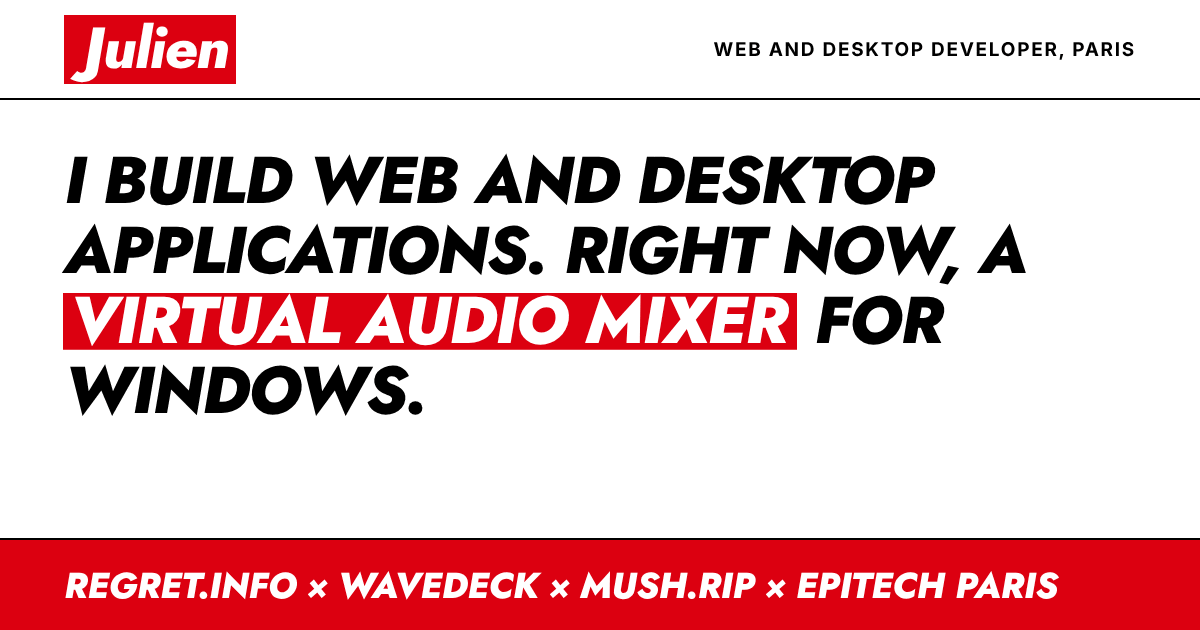
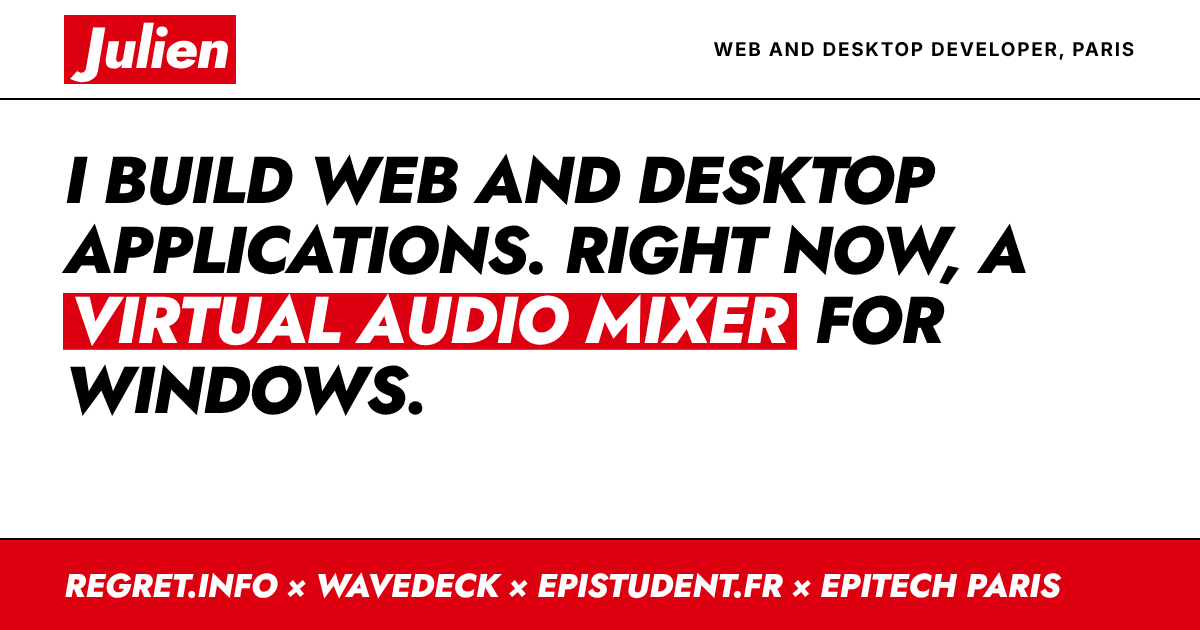
Content: epistudent.fr is the new project, mush.rip and Wingman are finished
- epistudent.fr leads the projects grid (red tile, links out) and appears in
  the introduction, the meta descriptions, the ticker, the social preview and
  the assistant. It is described only with what is known: a website that
  calculates a student's budget.
- mush.rip and Wingman stay as grey "finished" tiles, like sold-out items:
  past tense, no link. mush.rip leaves the current row of the timeline
  ("2025 – finished"; the end year is left out on purpose).
- The projects grid goes from three to two columns to fit four tiles.
- Assistant: scripted answers and the Groq prompt updated (past tense, new
  project, instruction not to invent details about it).
- README and social preview updated.

Checked in Chromium: no overflow and project names on one line from 320 to
2560 px (EN and FR), AA contrast on every text node in both themes, 24
interaction checks, 17 assistant answers, print output.

Claude-Session: https://claude.ai/code/session_0196o4fWBh3X7kWCBHnqm7Tk

Changed region(s): [[0.0617, 0.9048, 0.8942, 0.9651]]

diff --git a/index.html b/index.html
@@ -6,7 +6,7 @@
 <meta http-equiv="Content-Security-Policy" content="default-src 'self'; base-uri 'self'; object-src 'none'; form-action 'self'; img-src 'self' data:; font-src 'self'; style-src 'self' 'unsafe-inline'; script-src 'self' 'sha256-vpwFnruZ0Ph2kdsAgfS2eMYl62Y6UTLTqETLC7OAzMw='; connect-src 'self' https://api.lanyard.rest https://github-contributions-api.jogruber.de https://abacus.jasoncameron.dev; upgrade-insecure-requests">
 <meta name="referrer" content="strict-origin-when-cross-origin">
 <title>Julien · Web and desktop developer, Paris</title>
-<meta name="description" content="Julien, web and desktop developer based in Paris. First-year student at Epitech, building WaveDeck, a virtual audio mixer for Windows. Co-owner of mush.rip.">
+<meta name="description" content="Julien, web and desktop developer based in Paris. First-year student at Epitech, building WaveDeck, a virtual audio mixer for Windows, and epistudent.fr, a student budget calculator.">
 <meta name="author" content="Julien">
 <meta name="color-scheme" content="light dark">
 <meta name="theme-color" content="#ffffff">
@@ -22,7 +22,7 @@
 <meta property="og:site_name" content="Julien">
 <meta property="og:url" content="https://regret.info/">
 <meta property="og:title" content="Julien · Web and desktop developer, Paris">
-<meta property="og:description" content="Web and desktop applications. Building WaveDeck, a virtual audio mixer for Windows. Co-owner of mush.rip. Epitech Paris.">
+<meta property="og:description" content="Web and desktop applications. Building WaveDeck, a virtual audio mixer for Windows, and epistudent.fr, a student budget calculator. Epitech Paris.">
 <meta property="og:image" content="https://regret.info/assets/img/preview.png">
 <meta property="og:image:width" content="1200">
 <meta property="og:image:height" content="630">
@@ -32,7 +32,7 @@
 <meta property="profile:first_name" content="Julien">
 <meta name="twitter:card" content="summary_large_image">
 <meta name="twitter:title" content="Julien · Web and desktop developer, Paris">
-<meta name="twitter:description" content="Web and desktop applications. Building WaveDeck, a virtual audio mixer for Windows. Co-owner of mush.rip. Epitech Paris.">
+<meta name="twitter:description" content="Web and desktop applications. Building WaveDeck, a virtual audio mixer for Windows, and epistudent.fr, a student budget calculator. Epitech Paris.">
 <meta name="twitter:image" content="https://regret.info/assets/img/preview.png">
 <script type="application/ld+json">
 {"@context":"https://schema.org","@type":"Person","name":"Julien","alternateName":"Regret","url":"https://regret.info/","image":"https://regret.info/assets/img/avatar.jpg","jobTitle":"Web and desktop developer","email":"mailto:julien.roullet@proton.me","address":{"@type":"PostalAddress","addressLocality":"Paris","addressCountry":"FR"},"affiliation":{"@type":"CollegeOrUniversity","name":"Epitech Paris","url":"https://www.epitech.eu/"},"knowsAbout":["Python","JavaScript","C","PySide6","Qt","Node.js","Express","React","WebSockets","SQLite","Audio software","VST3"],"sameAs":["https://github.com/regret-py","https://discord.com/users/173290719316934659"]}
@@ -222,19 +222,23 @@ h1 em{padding:0 .16em 0 .1em;margin:0 -.02em;font-style:inherit;color:var(--on-m
 @keyframes vu{0%{height:28%}22%{height:74%}44%{height:46%}66%{height:90%}88%{height:56%}100%{height:68%}}
 
 /* projects: product tiles, red / ink / paper */
-.plist{list-style:none;margin:0;padding:0;display:grid;grid-template-columns:repeat(3,minmax(0,1fr));gap:20px}
+.plist{list-style:none;margin:0;padding:0;display:grid;grid-template-columns:repeat(2,minmax(0,1fr));gap:20px}
 .prow{position:relative;display:flex;flex-direction:column;border:1px solid var(--line);background:var(--bg);transition:transform .2s var(--ease),box-shadow .2s var(--ease)}
 .prow.lnk:hover{transform:translate(-3px,-3px);box-shadow:6px 6px 0 var(--text)}
-.phead{display:flex;flex-direction:column-reverse;justify-content:space-between;gap:48px;min-height:228px;padding:16px;background:var(--tile-bg);color:var(--tile-fg)}
+.phead{display:flex;flex-direction:column-reverse;justify-content:space-between;gap:48px;min-height:210px;padding:16px;background:var(--tile-bg);color:var(--tile-fg)}
 .t-red{--tile-bg:var(--mark);--tile-fg:var(--on-mark)}
 .t-ink{--tile-bg:var(--text);--tile-fg:var(--bg)}
 .t-paper{--tile-bg:var(--bg-2);--tile-fg:var(--text)}
 .phead .meta{color:inherit}
-.pname{margin:0;font:italic 800 clamp(26px,2.8vw,36px)/.98 var(--logo);letter-spacing:-.02em;text-transform:uppercase;overflow-wrap:anywhere}
+.pname{margin:0;font:italic 800 clamp(26px,3.6vw,46px)/.98 var(--logo);letter-spacing:-.02em;text-transform:uppercase;overflow-wrap:anywhere}
 .pname a{text-decoration:none}
 .pname a::after{content:"";position:absolute;inset:0}
 .pname a:focus-visible{outline:0}
 .prow:has(.pname a:focus-visible){outline:3px solid var(--accent);outline-offset:3px}
+/* finished projects: grey tile, no link, a label like a "sold out" tag */
+.tag{position:absolute;top:12px;right:14px;padding:4px 8px;background:var(--text);color:var(--bg);font:700 10px/1.2 var(--sans);letter-spacing:.08em;text-transform:uppercase}
+.prow.done .phead{min-height:150px}
+.prow.done .pname{color:var(--dim)}
 .pname .ext{position:absolute;top:13px;right:16px;font:700 18px/1 var(--sans);transition:transform .25s var(--ease)}
 .prow.lnk:hover .ext{transform:translate(3px,-3px)}
 .pbody{display:flex;flex-direction:column;gap:12px;padding:16px 16px 18px}
@@ -373,7 +377,8 @@ footer{padding:0;font:700 11px/1.5 var(--sans);letter-spacing:.08em;text-transfo
 @media (max-width:760px){
   .plist{grid-template-columns:minmax(0,1fr)}
   .phead{min-height:176px}
-  .pname{font-size:clamp(30px,8vw,40px)}
+  .prow.done .phead{min-height:120px}
+  .pname{font-size:clamp(26px,7.6vw,40px)}
 }
 @media (max-width:640px){
   .wrap{padding-left:18px;padding-right:18px}
@@ -453,6 +458,8 @@ footer{padding:0;font:700 11px/1.5 var(--sans);letter-spacing:.08em;text-transfo
   .prow{display:grid;grid-template-columns:150px minmax(0,1fr);gap:0 12pt;padding:6pt 0;border:0;border-top:1px solid var(--rule);break-inside:avoid;transform:none!important;box-shadow:none!important}
   .phead{display:block;min-height:0;padding:0;background:none;color:#000}
   .pbody{padding:0}
+  .tag{position:static;display:inline-block;margin-top:2pt;padding:0 4pt;background:none;color:#000;border:1px solid #000;font-size:7pt}
+  .prow.done .pname{color:#000}
   .pname{font-size:10.5pt}
   .pname a::after{content:" (" attr(href) ")";position:static;font:400 7.5pt var(--sans);letter-spacing:0;text-transform:none;color:#555}
   .meta,.stack,.xp-row dt{font-size:8pt}
@@ -518,7 +525,7 @@ footer{padding:0;font:700 11px/1.5 var(--sans);letter-spacing:.08em;text-transfo
 
       <div class="hero-main">
         <h1 id="h-hero" class="rise" style="--d:2" data-i18n-html="hero_h">I build web and desktop applications. <span class="nw">Right now,</span> a <em>virtual audio mixer</em> for Windows.</h1>
-        <p class="intro rise" style="--d:3" data-i18n-html="hero_p">First-year student at <a class="u" href="https://www.epitech.eu/" target="_blank" rel="noopener">Epitech Paris</a>, in the Programme Grande École (PGE). I also co-own <a class="u" href="https://mush.rip" target="_blank" rel="noopener">mush.rip</a>, a link-in-bio platform, where I look after product and operations.</p>
+        <p class="intro rise" style="--d:3" data-i18n-html="hero_p">First-year student at <a class="u" href="https://www.epitech.eu/" target="_blank" rel="noopener">Epitech Paris</a>, in the Programme Grande École (PGE). I also build <a class="u" href="https://epistudent.fr" target="_blank" rel="noopener">epistudent.fr</a>, a website that calculates a student’s budget.</p>
 
         <div class="hero-foot rise" style="--d:4">
           <p class="avail" data-i18n="avail">Available for an internship, freelance work or a collaboration</p>
@@ -534,7 +541,7 @@ footer{padding:0;font:700 11px/1.5 var(--sans);letter-spacing:.08em;text-transfo
 </div>
 
 <!-- decorative strip: two identical halves so the loop is seamless; each half must stay wider than the viewport (7 repeats cover 5K screens) -->
-<div class="ticker" aria-hidden="true"><div class="ticker-track"><span>WaveDeck × mush.rip × Flockocord × Wingman × Epitech Paris × WaveDeck × mush.rip × Flockocord × Wingman × Epitech Paris × WaveDeck × mush.rip × Flockocord × Wingman × Epitech Paris × WaveDeck × mush.rip × Flockocord × Wingman × Epitech Paris × WaveDeck × mush.rip × Flockocord × Wingman × Epitech Paris × WaveDeck × mush.rip × Flockocord × Wingman × Epitech Paris × WaveDeck × mush.rip × Flockocord × Wingman × Epitech Paris ×&nbsp;</span><span>WaveDeck × mush.rip × Flockocord × Wingman × Epitech Paris × WaveDeck × mush.rip × Flockocord × Wingman × Epitech Paris × WaveDeck × mush.rip × Flockocord × Wingman × Epitech Paris × WaveDeck × mush.rip × Flockocord × Wingman × Epitech Paris × WaveDeck × mush.rip × Flockocord × Wingman × Epitech Paris × WaveDeck × mush.rip × Flockocord × Wingman × Epitech Paris × WaveDeck × mush.rip × Flockocord × Wingman × Epitech Paris ×&nbsp;</span></div></div>
+<div class="ticker" aria-hidden="true"><div class="ticker-track"><span>WaveDeck × epistudent.fr × Flockocord × Epitech Paris × WaveDeck × epistudent.fr × Flockocord × Epitech Paris × WaveDeck × epistudent.fr × Flockocord × Epitech Paris × WaveDeck × epistudent.fr × Flockocord × Epitech Paris × WaveDeck × epistudent.fr × Flockocord × Epitech Paris × WaveDeck × epistudent.fr × Flockocord × Epitech Paris × WaveDeck × epistudent.fr × Flockocord × Epitech Paris ×&nbsp;</span><span>WaveDeck × epistudent.fr × Flockocord × Epitech Paris × WaveDeck × epistudent.fr × Flockocord × Epitech Paris × WaveDeck × epistudent.fr × Flockocord × Epitech Paris × WaveDeck × epistudent.fr × Flockocord × Epitech Paris × WaveDeck × epistudent.fr × Flockocord × Epitech Paris × WaveDeck × epistudent.fr × Flockocord × Epitech Paris × WaveDeck × epistudent.fr × Flockocord × Epitech Paris ×&nbsp;</span></div></div>
 
 <div class="wrap rest">
 
@@ -606,11 +613,11 @@ footer{padding:0;font:700 11px/1.5 var(--sans);letter-spacing:.08em;text-transfo
     <ul class="plist">
       <li class="prow t-red lnk">
         <div class="phead">
-          <h3 class="pname"><a href="https://mush.rip" target="_blank" rel="noopener">mush.rip<span class="ext" aria-hidden="true">↗</span></a></h3>
-          <p class="meta" data-i18n="mush_meta">co-owner&nbsp;· since&nbsp;2025</p>
+          <h3 class="pname"><a href="https://epistudent.fr" target="_blank" rel="noopener">epistudent.fr<span class="ext" aria-hidden="true">↗</span></a></h3>
+          <p class="meta" data-i18n="epi_meta">new project</p>
         </div>
         <div class="pbody">
-          <p data-i18n="mush_desc">Link-in-bio platform: one page that brings together a person’s links, social profiles and statistics. A small team builds it; as co-owner, I handle product and operations.</p>
+          <p data-i18n="epi_desc">Website that calculates a student’s budget.</p>
         </div>
       </li>
       <li class="prow t-ink">
@@ -623,10 +630,21 @@ footer{padding:0;font:700 11px/1.5 var(--sans);letter-spacing:.08em;text-transfo
           <p class="stack">node.js&nbsp;· express&nbsp;· websocket&nbsp;· sqlite&nbsp;· jwt</p>
         </div>
       </li>
-      <li class="prow t-paper">
+      <li class="prow t-paper done">
+        <div class="phead">
+          <h3 class="pname">mush.rip</h3>
+          <p class="meta" data-i18n="mush_meta">co-owner&nbsp;· 2025</p>
+          <span class="tag" data-i18n="done">finished</span>
+        </div>
+        <div class="pbody">
+          <p data-i18n="mush_desc">Link-in-bio platform: one page that brought together a person’s links, social profiles and statistics. A small team built it; as co-owner, I handled product and operations.</p>
+        </div>
+      </li>
+      <li class="prow t-paper done">
         <div class="phead">
           <h3 class="pname">Wingman</h3>
           <p class="meta" data-i18n="community">community&nbsp;· Discord bot</p>
+          <span class="tag" data-i18n="done">finished</span>
         </div>
         <div class="pbody">
           <p data-i18n-html="wing_desc">A <span class="nw">Counter-Strike 2</span> community and its Discord bot: matchmaking, tournaments and anti-raid protection.</p>
@@ -664,7 +682,7 @@ footer{padding:0;font:700 11px/1.5 var(--sans);letter-spacing:.08em;text-transfo
     <div>
       <dl class="xp xp--time">
         <div class="xp-row cur"><dt class="num" data-i18n="d1">Sept 2026 – present</dt><dd><b>Epitech Paris</b><span data-i18n-html="r1">Programme Grande École (PGE), first year</span></dd></div>
-        <div class="xp-row cur"><dt class="num" data-i18n="d2">2025 – present</dt><dd><b>mush.rip</b><span data-i18n="r2">Co-owner, product and operations, remote</span></dd></div>
+        <div class="xp-row"><dt class="num" data-i18n="d2">2025 – finished</dt><dd><b>mush.rip</b><span data-i18n="r2">Co-owner, product and operations, remote</span></dd></div>
         <div class="xp-row"><dt class="num">2026</dt><dd><b>Baccalauréat STI2D</b><span data-i18n="r3">Technology track, SIN specialisation (information systems and digital technology)</span></dd></div>
       </dl>
       <p class="cvline"><a class="u" href="mailto:julien.roullet@proton.me?subject=CV%20request" data-i18n="cv" data-i18n-href="cv_href">Full CV on request →</a></p>
@@ -674,7 +692,7 @@ footer{padding:0;font:700 11px/1.5 var(--sans);letter-spacing:.08em;text-transfo
   <section class="sec" id="off" aria-labelledby="h-off">
     <h2 class="sec-h" id="h-off"><span class="n">04</span><span data-i18n="off_h">off screen</span></h2>
     <div>
-      <p class="lede" data-i18n-html="off_p">Away from the keyboard: cars, skateboarding and catamaran sailing. And <span class="nw">Counter-Strike 2</span>, which is where Wingman comes from.</p>
+      <p class="lede" data-i18n-html="off_p">Away from the keyboard: cars, skateboarding and catamaran sailing. And <span class="nw">Counter-Strike 2</span>, which is where Wingman came from.</p>
       <div class="photos">
         <figure><picture><source srcset="assets/img/car.webp" type="image/webp"><img src="assets/img/car.jpg" alt="A blue sports coupé cornering on a race track" data-i18n-alt="img_car" width="660" height="470" loading="lazy" decoding="async"></picture><figcaption data-i18n="cap_car">fig. 2: on track</figcaption></figure>
         <figure><picture><source srcset="assets/img/skate.webp" type="image/webp"><img src="assets/img/skate.jpg" alt="Three skateboards on a train" data-i18n-alt="img_skate" width="460" height="613" loading="lazy" decoding="async"></picture><figcaption data-i18n="cap_skate">fig. 3: skateboarding</figcaption></figure>

diff --git a/assets/js/site.js b/assets/js/site.js
@@ -48,14 +48,14 @@
   // Typography: U+00A0 before ":" and U+202F before ";", "?" and "!".
   var T = { fr: {
     doc_title: 'Julien · Développeur web et desktop, Paris',
-    doc_desc: 'Julien, développeur web et desktop basé à Paris. Étudiant en 1re année à Epitech, il développe WaveDeck, une table de mixage audio virtuelle pour Windows. Copropriétaire de mush.rip.',
+    doc_desc: 'Julien, développeur web et desktop basé à Paris. Étudiant en 1re année à Epitech, il développe WaveDeck, une table de mixage audio virtuelle pour Windows, et epistudent.fr, un site qui calcule le budget d’un étudiant.',
     skip: 'Aller au contenu',
     home_aria: 'Julien, accueil', nav_aria: 'Navigation principale', lang_group: 'Langue',
     nav_projects: 'projets', nav_skills: 'compétences', nav_bg: 'parcours', nav_contact: 'contact',
     role: 'développeur\u00a0· Paris',
     mast_field: 'Développement web et desktop', mast_geo: '48,86°\u00a0N, 2,35°\u00a0E',
     hero_h: 'Je développe des applications web et desktop. <span class="nw">En ce moment,</span> une <em>table de mixage audio</em> pour Windows.',
-    hero_p: 'Étudiant en 1<sup>re</sup> année à <a class="u" href="https://www.epitech.eu/" target="_blank" rel="noopener">Epitech Paris</a>, au sein du Programme Grande École (PGE). Je suis également copropriétaire de <a class="u" href="https://mush.rip" target="_blank" rel="noopener">mush.rip</a>, une plateforme link-in-bio, où je m’occupe du produit et des opérations.',
+    hero_p: 'Étudiant en 1<sup>re</sup> année à <a class="u" href="https://www.epitech.eu/" target="_blank" rel="noopener">Epitech Paris</a>, au sein du Programme Grande École (PGE). Je développe aussi <a class="u" href="https://epistudent.fr" target="_blank" rel="noopener">epistudent.fr</a>, un site qui calcule le budget d’un étudiant.',
     avail: 'Disponible pour un stage, une mission freelance ou une collaboration',
     cta_mail: 'Écrire un e-mail', cta_cv: 'CV sur demande',
     cv_href: 'mailto:julien.roullet@proton.me?subject=Demande%20de%20CV',
@@ -66,8 +66,9 @@
     sp_plugins_v: 'VST3, chargés avec Pedalboard', sp_code_v: 'pas encore public',
     wd_link: 'Me contacter au sujet de WaveDeck →',
     wd_fig: 'fig. 1\u00a0: maquette jouable. Faites glisser les faders, appuyez sur M (muet) ou S (solo).',
-    mush_meta: 'copropriétaire\u00a0· depuis\u00a02025',
-    mush_desc: 'Plateforme link-in-bio\u00a0: une page unique qui réunit les liens, les réseaux sociaux et les statistiques d’une personne. Une petite équipe la développe\u202f; en tant que copropriétaire, je m’occupe du produit et des opérations.',
+    epi_meta: 'nouveau projet', epi_desc: 'Site web qui calcule le budget d’un étudiant.', done: 'terminé',
+    mush_meta: 'copropriétaire\u00a0· 2025',
+    mush_desc: 'Plateforme link-in-bio\u00a0: une page unique qui réunissait les liens, les réseaux sociaux et les statistiques d’une personne. Une petite équipe la développait\u202f; en tant que copropriétaire, je m’occupais du produit et des opérations.',
     side: 'projet personnel',
     flock_desc: 'Application de messagerie en temps réel, écrite de zéro\u00a0: échanges par WebSocket, authentification JWT et stockage SQLite.',
     community: 'communauté\u00a0· bot Discord',
@@ -76,7 +77,7 @@
     sk_front_v: 'HTML, CSS, React, référencement technique (SEO)',
     sk_learn_v: 'Le C, l’environnement Unix et la gestion de la mémoire, à Epitech',
     gh_h: 'Activité GitHub', gh_sub: 'contributions sur les 12 derniers mois', gh_less: 'moins', gh_more: 'plus',
-    d1: 'sept. 2026 – aujourd’hui', d2: '2025 – aujourd’hui',
+    d1: 'sept. 2026 – aujourd’hui', d2: '2025 – terminé',
     r1: 'Programme Grande École (PGE), 1<sup>re</sup> année',
     r2: 'Copropriétaire, produit et opérations, à distance',
     r3: 'Spécialité Systèmes d’information et numérique (SIN)',
@@ -540,15 +541,18 @@
       { w: 2, k: ['wavedeck', 'wave', 'audio', 'voicemeeter', 'mix', 'mixer', 'mixage', 'sound', 'vst', 'vst3'],
         en: 'WaveDeck is a modular virtual audio mixer for Windows, Julien’s own take on Voicemeeter. It is written in Python with PySide6, uses sounddevice for audio and Pedalboard to host VST3 plugins. The code is not public yet.',
         fr: 'WaveDeck est une table de mixage audio virtuelle et modulaire pour Windows, la version de Julien de Voicemeeter. Elle est écrite en Python avec PySide6, utilise sounddevice pour l’audio et Pedalboard pour charger des plugins VST3. Le code n’est pas encore public.' },
+      { k: ['epistudent', 'budget', 'calculator', 'calculateur', 'calcul'],
+        en: 'epistudent.fr is Julien’s new project: a website that calculates a student’s budget.',
+        fr: 'epistudent.fr est le nouveau projet de Julien\u00a0: un site qui calcule le budget d’un étudiant.' },
       { w: 2, k: ['mush', 'linkinbio'],
-        en: 'mush.rip is a link-in-bio platform: one page for a person’s links, social profiles and statistics. A small team builds it; Julien co-owns it and handles product and operations.',
-        fr: 'mush.rip est une plateforme link-in-bio\u00a0: une page unique pour les liens, les réseaux et les statistiques d’une personne. Une petite équipe la développe\u202f; Julien en est copropriétaire et s’occupe du produit et des opérations.' },
+        en: 'mush.rip was a link-in-bio platform: one page for a person’s links, social profiles and statistics. A small team built it; Julien co-owned it and handled product and operations. The project is now finished.',
+        fr: 'mush.rip était une plateforme link-in-bio\u00a0: une page unique pour les liens, les réseaux et les statistiques d’une personne. Une petite équipe la développait\u202f; Julien en était copropriétaire et s’occupait du produit et des opérations. Le projet est aujourd’hui terminé.' },
       { w: 2, k: ['flocko', 'flockocord', 'flockopops', 'chat', 'websocket', 'messagerie'],
         en: 'Flockocord is a real-time chat application Julien wrote from scratch with Node.js, Express, WebSockets, SQLite and JWT. This assistant is named after it.',
         fr: 'Flockocord est une application de messagerie en temps réel écrite de zéro par Julien, avec Node.js, Express, WebSockets, SQLite et JWT. Cet assistant porte son nom.' },
       { w: 2, k: ['wingman', 'cs2', 'counter', 'csgo', 'game', 'jeu', 'jeux', 'gaming', 'bot', 'tournoi', 'tournament', 'matchmaking'],
-        en: 'Wingman is a Counter-Strike 2 community with its own Discord bot (discord.js, SQLite): matchmaking, tournaments and anti-raid protection.',
-        fr: 'Wingman est une communauté Counter-Strike 2 dotée de son propre bot Discord (discord.js, SQLite)\u00a0: matchmaking, tournois et protection anti-raid.' },
+        en: 'Wingman was a Counter-Strike 2 community with its own Discord bot (discord.js, SQLite): matchmaking, tournaments and anti-raid protection. The project is now finished.',
+        fr: 'Wingman était une communauté Counter-Strike 2 dotée de son propre bot Discord (discord.js, SQLite)\u00a0: matchmaking, tournois et protection anti-raid. Le projet est aujourd’hui terminé.' },
       { id: 'ai', w: 3, k: ['ia', 'ai', 'robot', 'assistant', 'automatique', 'automated', 'chatgpt', 'gpt', 'llm', 'humain', 'human'],
         en: 'I am an automated assistant: my answers are produced automatically from information about Julien and may be incomplete. For anything important, please email him directly.',
         fr: 'Je suis un assistant automatisé\u00a0: mes réponses sont produites automatiquement à partir d’informations sur Julien et peuvent être incomplètes. Pour toute demande importante, écrivez-lui directement.' },
@@ -575,11 +579,11 @@
         en: 'Off screen: cars, skateboarding, catamaran sailing and Counter-Strike 2.',
         fr: 'Hors écran\u00a0: l’automobile, le skate, le catamaran et Counter-Strike 2.' },
       { k: ['project', 'projet', 'travaux', 'work', 'build', 'portfolio', 'realisation'],
-        en: 'Main projects: WaveDeck (virtual audio mixer for Windows), mush.rip (link-in-bio platform he co-owns), Flockocord (real-time chat application) and Wingman (Counter-Strike 2 community and Discord bot).',
-        fr: 'Projets principaux\u00a0: WaveDeck (table de mixage audio virtuelle pour Windows), mush.rip (plateforme link-in-bio dont il est copropriétaire), Flockocord (messagerie en temps réel) et Wingman (communauté Counter-Strike 2 et bot Discord).' },
+        en: 'Main projects: WaveDeck (virtual audio mixer for Windows), epistudent.fr (a website that calculates a student’s budget) and Flockocord (real-time chat application). Earlier projects, now finished: mush.rip (link-in-bio platform he co-owned) and Wingman (Counter-Strike 2 community and Discord bot).',
+        fr: 'Projets principaux\u00a0: WaveDeck (table de mixage audio virtuelle pour Windows), epistudent.fr (un site qui calcule le budget d’un étudiant) et Flockocord (messagerie en temps réel). Projets passés, aujourd’hui terminés\u00a0: mush.rip (plateforme link-in-bio dont il était copropriétaire) et Wingman (communauté Counter-Strike 2 et bot Discord).' },
       { k: ['who', 'qui', 'about', 'present', 'presente', 'yourself', 'julien', 'profil', 'profile', 'age'],
-        en: 'Julien is a web and desktop developer based in Paris, in his first year at Epitech (Programme Grande École). He co-owns mush.rip and is building WaveDeck, a virtual audio mixer for Windows.',
-        fr: 'Julien est développeur web et desktop, basé à Paris, en 1re année à Epitech (Programme Grande École). Il est copropriétaire de mush.rip et développe WaveDeck, une table de mixage audio virtuelle pour Windows.' },
+        en: 'Julien is a web and desktop developer based in Paris, in his first year at Epitech (Programme Grande École). He is building WaveDeck, a virtual audio mixer for Windows, and epistudent.fr, a website that calculates a student’s budget.',
+        fr: 'Julien est développeur web et desktop, basé à Paris, en 1re année à Epitech (Programme Grande École). Il développe WaveDeck, une table de mixage audio virtuelle pour Windows, et epistudent.fr, un site qui calcule le budget d’un étudiant.' },
       { k: ['merci', 'thanks', 'thx', 'thank', 'cool', 'nice', 'top', 'super', 'parfait'], en: 'You’re welcome.', fr: 'Avec plaisir.' },
       { g: 1, k: ['salut', 'bonjour', 'hello', 'hi', 'hey', 'yo', 'coucou', 'wesh', 'bonsoir', 'slt'],
         en: 'Hello. You can ask me about Julien’s projects, skills, studies or how to contact him.',

diff --git a/api/chat.js b/api/chat.js
@@ -78,9 +78,10 @@ const SYSTEM = `You are "flockopops", the automated assistant on Julien's portfo
 About Julien (the only facts you may use):
 - Web and desktop developer based in Paris, France. Goes by "Regret" online.
 - First-year student in Epitech Paris's Programme Grande École (PGE) since September 2026, where he is learning C, the Unix environment and memory management. Before that: Baccalauréat STI2D, SIN specialisation (information systems and digital technology), 2026.
-- Co-owner of mush.rip since 2025, a link-in-bio platform (one page for a person's links, social profiles and statistics). A small team builds it; Julien handles product and operations. He did not create it and is not one of its developers.
+- New project: epistudent.fr, a website that calculates a student's budget. That is all that is known about it: do not invent features, technology or dates, and point to the site or his email for details.
 - Currently building WaveDeck, a modular virtual audio mixer for Windows (his own take on Voicemeeter): Python, PySide6 (Qt), sounddevice (PortAudio), VST3 plugins hosted with Pedalboard. A central audio engine runs on the main device (master clock); channel strips stack on top; extra input/output devices are bridged through ring buffers. The code is not public yet.
-- Other projects: Flockocord (real-time chat application written from scratch: Node.js, Express, WebSockets, SQLite, JWT; this assistant is named after it) and Wingman (Counter-Strike 2 community and its Discord bot: matchmaking, tournaments, anti-raid; discord.js, SQLite).
+- Other project: Flockocord (real-time chat application written from scratch: Node.js, Express, WebSockets, SQLite, JWT; this assistant is named after it).
+- Earlier projects, both now finished: mush.rip (co-owned from 2025; a link-in-bio platform, one page for a person's links, social profiles and statistics; a small team built it, Julien handled product and operations, he did not create it and was not one of its developers) and Wingman (Counter-Strike 2 community and its Discord bot: matchmaking, tournaments, anti-raid; discord.js, SQLite).
 - Skills: Python, JavaScript, Bash; HTML, CSS, React, technical SEO; Node.js, Express, WebSockets, JWT, SQLite, discord.js; PySide6 (Qt), sounddevice, Pedalboard, VST3; Git, GitHub, Linux, VS Code. He builds quickly with AI tools as a copilot.
 - Available for internships, freelance work and collaborations (web, desktop, audio). CV sent on request by email.
 - Interests: cars, skateboarding, catamaran sailing, Counter-Strike 2.

diff --git a/README.md b/README.md
@@ -26,6 +26,7 @@ vercel.json           HTTP headers if the site is ever deployed on Vercel
   the reader as *vous*.
 - **Projects / skills / background** are plain lists in `index.html` (`.prow` and `.xp-row` blocks).
   Each project tile picks its colourway with a class: `t-red`, `t-ink` or `t-paper`; add `lnk` when the tile links out.
+  A finished project gets `done` (grey, no link) and a `<span class="tag" data-i18n="done">` label, like a "sold out" tag.
 - **CV**: the links open an email. To host a PDF instead, add `cv.pdf` at the root and point the two
   `data-i18n="cv"` / `cta_cv` links to `/cv.pdf` (remove their `data-i18n-href`).
 - **Images**: add the JPEG and a WebP next to it (`<picture>` serves WebP, JPEG is the fallback).
